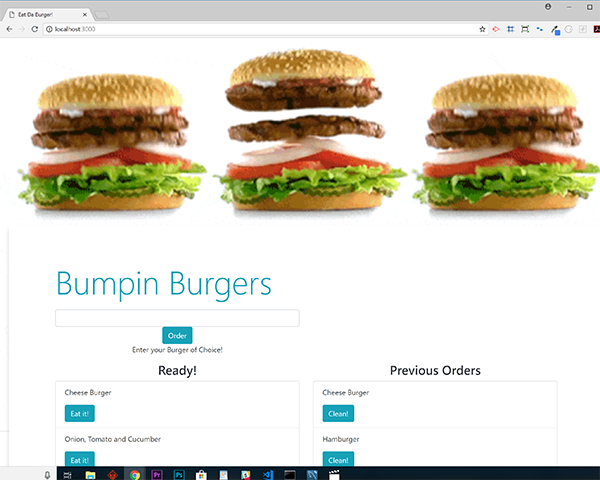
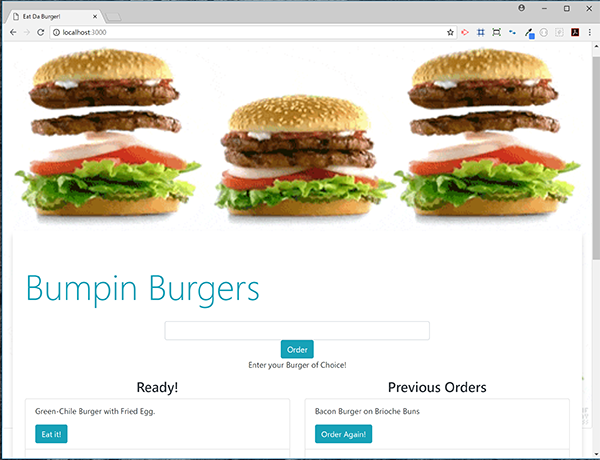
bumpin and stylin

diff --git a/public/assets/js/burgers.js b/public/assets/js/burgers.js
@@ -1,10 +1,10 @@
 $(function() {
 
     $(".deleteBurger").on("click", function(event) {
-      var id = $(this).data("this.id");
+      var id = $(this).data("id");
   
       // Send the DELETE request.
-      $.ajax("/burgers/" + id, {
+      $.ajax("/api/burgers/" + id, {
         type: "DELETE"
       }).then(
         function() {
@@ -16,48 +16,49 @@ $(function() {
     });
   
   
-    // $("#createburger").on("submit", function(event) {
-    //   // Make sure to preventDefault on a submit event.
-    //   event.preventDefault();
+    $("#createburger").on("submit", function(event) {
+      // Make sure to preventDefault on a submit event.
+      event.preventDefault();
   
-    //   var newburger = {
-    //     burger: $("#createburger [name=burger]").val().trim()
-    //   };
+      var newBurger = {
+        burger_name: $("#ba").val().trim()
+      };
   
-    //   // Send the POST request.
-    //   $.ajax("/burgers/", {
-    //     type: "POST",
-    //     data: newburger
-    //   }).then(
-    //     function() {
-    //       console.log("created new burger");
-    //       // Reload the page to get the updated list
-    //       location.reload();
-    //     }
-    //   );
-    // });
+      // Send the POST request.
+      $.ajax("/api/burgers/", {
+        type: "POST",
+        data: newBurger
+      }).then(
+        function() {
+          console.log("created new burger");
+          // Reload the page to get the updated list
+          location.reload();
+        }
+      );
+    });
   
-    // $("#updateburger").on("submit", function(event) {
-    //   // Make sure to preventDefault on a submit event.
-    //   event.preventDefault();
+    $("#updateburger").on("submit", function(event) {
+      // Make sure to preventDefault on a submit event.
+      event.preventDefault();
   
-    //   var id = $("[name=id]").val().trim();
+      var id = $(this).data("id");
+      var newDevoured = $(this).data("devoured");
   
-    //   var updatedburger = {
-    //     burger: $("#updateburger [name=burger]").val().trim()
-    //   };
+      var newBurger = {
+        devoured: newDevoured
+      };
   
-    //   // Send the PUT request.
-    //   $.ajax("/burgers/" + id, {
-    //     type: "PUT",
-    //     data: updatedburger
-    //   }).then(
-    //     function() {
-    //       console.log("updated id ", id);
-    //       // Reload the page to get the updated list
-    //       location.reload();
-    //     }
-    //   );
-    // });
+      // Send the PUT request.
+      $.ajax("/api/burgers/" + id, {
+        type: "PUT",
+        data: newBurger
+      }).then(
+        function() {
+          console.log("changed devoured", newBurger);
+          // Reload the page to get the updated list
+          location.reload();
+        }
+      );
+    });
   
   })

diff --git a/config/orm.js b/config/orm.js
@@ -45,7 +45,7 @@ var orm = {
     connection.query("SELECT * FROM " + tableInput + ";", function (err, result) {
       if (err) throw err;
       cb(result)
-    })
+    });
   },
 
 
@@ -53,14 +53,14 @@ var orm = {
     connection.query("UPDATE " + tableInput + " SET devoured=true WHERE id=" + condition + ";", function (err, result) {
       if (err) throw err;
       cb(result);
-    })
+    });
   },
 
   create: function(tableInput, val, cb){
     connection.query('INSERT INTO '+ tableInput +" (burger_name) VALUES ('"+val+"');", function(err,result){
       if (err) throw err;
       cb(result);      
-    })
+    });
   },
 
   delete: function(tableInput, condition, cb) {
@@ -71,7 +71,7 @@ var orm = {
     connection.query(queryString, function(err, result) {
       if (err) throw err;  
       cb(result);
-    })
+    });
   }
   
   // delete: function(tableInput, condition, cb) {
@@ -80,6 +80,6 @@ var orm = {
   //       cb(result);
   //   })
   // }
-}
+};
 
 module.exports = orm;

diff --git a/controllers/routes.js b/controllers/routes.js
@@ -25,13 +25,13 @@ router.post("/burgers/create", function(req, res) {
 })
 
 
-router.delete("/burgers/delete", function(req, res) {
-  burger.delete(req.body.burger_id, function(result) {
-    res.redirect("/");
-  });
-});
+// router.delete("/burgers/delete", function(req, res) {
+//   burger.delete(req.body.burger_id, function(result) {
+//     res.redirect("/");
+//   });
+// });
 
-router.delete("/api/burgers/:id", function(req, res) {
+router.delete("/:id", function(req, res) {
   var condition = "id = " + req.params.id;
 
   burgers.delete(condition, function(result) {

diff --git a/server.js b/server.js
@@ -10,7 +10,7 @@ var app = express();
 app.use(express.static(__dirname + "/public"));
 
 // parse application/x-www-form-urlencoded
-app.use(bodyParser.urlencoded({ extended: false }));
+app.use(bodyParser.urlencoded({ extended: true }));
 
 // parse application/json
 app.use(bodyParser.json());

diff --git a/README.md b/README.md
@@ -1,8 +1,34 @@
 # 🍔 Eat-Da-Burger
-It's a Restaurant App that lets you - Choose your Burger &amp; Eat it Too!
+Bumpin Burgers is a Restaurant App that lets you - Choose your Burger &amp; Eat it Too!
 
+### Technologies
+
+* HTML
+* Javascript
+* Node.js
+* Express.js
+* Handlebars
+* MySQL
+* ORM
+* MVC
+* NPM Packages
+    1. Express
+    2. Method-override
+    3. Body-parser
+    4. Express-handlebars
+    5. mySql
+    6. Handlebars-helper-css
+
+### Description
+
+    A full stack application with the front end implemented with HTML, CSS, and Bootstrap, and the back end with Node.js and Express. Data is stored in a MySQL database. HTML templating is done handled with the use of Handlebars.
+
+    The user may enter any burger of choice to add it to the menu or select *Order Again* from the *Previous Order*. This adds the new burger entry into the MySQL database. The initial burger entry is added as *Ready!* on the menu and placed on the left side of the screen. The user may then eat any burger by clicking on it, which moves it into the adjacent column and updates its status accordingly in the database.
 
 ### Bumpin Burgers ScreensShots
 Home.html
 
 ![Home.html](screenShots/home.png)
+
+
+### **[Demo](https://guarded-reaches-61413.herokuapp.com/)**
